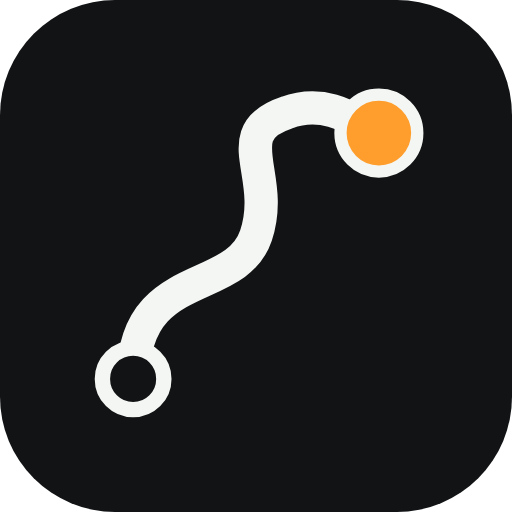
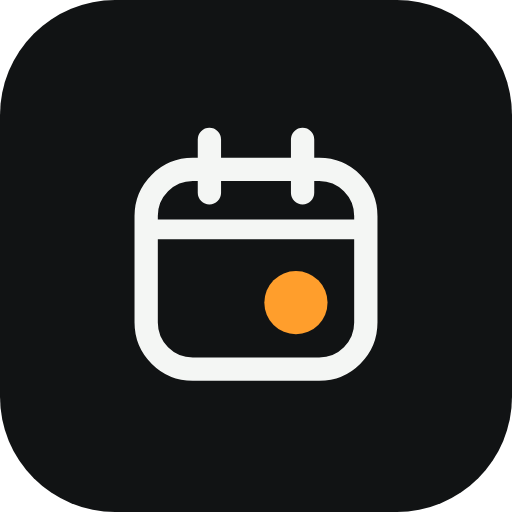
style: 앱 아이콘과 시작·로딩 화면을 달력 로고로 교체 (#119)
* style: 앱 아이콘과 시작·로딩 화면을 달력 로고로 교체

- 지도 경로 로고 대신 하루에 주황 점을 찍은 달력 마크
- 앱 아이콘, 파비콘, iOS 시작 화면 14장을 새 마크로 다시 생성
- 로딩 화면 마크를 시작 화면과 같은 크기로 맞추고 쓰지 않는 깜빡임 애니메이션 삭제

* fix: 라이트 테마에서 앱 로딩 화면 주변에 흰 바탕이 비치는 문제 수정

- 로딩 화면이 화면 높이 단위 대신 화면 전체를 덮도록 고정
- 로딩 중에는 페이지 바탕도 로고 바탕색으로 칠함

* fix: 라이트 모드에서 탭바 선택 표시기가 잘 보이지 않는 문제 수정

Changed region(s): [[0.1875, 0.1562, 0.8438, 0.8125], [0.5, 0.5312, 0.6562, 0.6562]]

diff --git a/src/app/ui/app-loading.tsx b/src/app/ui/app-loading.tsx
@@ -2,20 +2,14 @@ export function AppLoading() {
   return (
     <main
       aria-busy="true"
-      className="app-loading flex min-h-svh w-full items-center justify-center bg-logo text-logo-foreground"
+      className="app-loading fixed inset-0 flex items-center justify-center bg-logo text-logo-foreground"
     >
       <div role="status">
-        <svg aria-hidden="true" className="size-30 overflow-visible" viewBox="0 0 100 100">
-          <path
-            d="M26 74 C26 52 46 58 50 46 C54 34 44 26 56 22 C64 19 70 24 74 26"
-            fill="none"
-            stroke="currentColor"
-            strokeLinecap="round"
-            strokeWidth={6.5}
-          />
-          <circle className="fill-logo" cx={26} cy={74} r={6} stroke="currentColor" strokeWidth={3} />
-          <circle className="map-location-pulse fill-logo-accent" cx={74} cy={26} r={7.5} />
-          <circle className="fill-logo-accent" cx={74} cy={26} r={7.5} stroke="currentColor" strokeWidth={2.4} />
+        <svg aria-hidden="true" className="size-28" fill="none" stroke="currentColor" viewBox="0 0 100 100">
+          <rect height={60} rx={14} strokeWidth={7} width={66} x={17} y={24} />
+          <path d="M36 15v16M64 15v16" strokeLinecap="round" strokeWidth={7} />
+          <path d="M17 42h66" strokeWidth={6} />
+          <circle className="fill-logo-accent" cx={62} cy={64} r={9.5} stroke="none" />
         </svg>
         <span className="sr-only">뭐했지 앱을 불러오는 중</span>
       </div>

diff --git a/src/app/styles/globals.css b/src/app/styles/globals.css
@@ -121,7 +121,7 @@
   --navigation-solid: rgb(248 248 250);
   --navigation-label: rgb(60 60 67 / 0.88);
   --navigation-selected: var(--text-accent);
-  --navigation-selection: rgb(0 0 0 / 0.07);
+  --navigation-selection: rgb(0 0 0 / 0.12);
   --navigation-edge: rgb(0 0 0 / 0.12);
   --navigation-lens: rgb(255 255 255 / 0.03);
   --navigation-lens-shadow: rgb(0 0 0 / 0.16);
@@ -547,11 +547,9 @@
   }
 }
 
-/* 홈 화면 앱은 상단 안전 영역의 초기화와 무관하게 스플래시와 같은 전체 화면 중앙을 쓴다. */
-@media (display-mode: standalone) {
-  .app-loading {
-    min-height: 100lvh;
-  }
+/* 시작 화면 이미지처럼 화면 전체를 덮고, 바탕도 같은 색으로 맞춰 라이트 테마의 흰 바탕이 비치지 않게 한다. */
+html:has(.app-loading) {
+  background: var(--fill-logo);
 }
 
 @keyframes loading-dot {
@@ -596,25 +594,7 @@
   }
 }
 
-@keyframes map-location-pulse {
-  from {
-    opacity: 1;
-    transform: scale(1);
-  }
-
-  to {
-    opacity: 0;
-    transform: scale(2.4);
-  }
-}
-
 @media (prefers-reduced-motion: no-preference) {
-  .map-location-pulse {
-    transform-box: fill-box;
-    transform-origin: center;
-    animation: map-location-pulse 1800ms cubic-bezier(0.23, 1, 0.32, 1) infinite;
-  }
-
   [data-funnel-step][data-direction="forward"] {
     animation: funnel-step-forward 280ms cubic-bezier(0.77, 0, 0.175, 1) both;
   }
